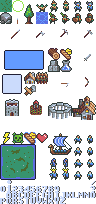
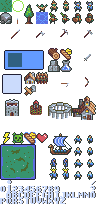
gfx

Changed region(s): [[0.0625, 0.2353, 0.25, 0.3529], [0.5, 0.5, 0.75, 0.5882]]

diff --git a/src/js/ui/renderUI.js b/src/js/ui/renderUI.js
@@ -160,6 +160,11 @@ function drawUiBox(uiPos, tileInfo, text) {
 		vec2(4, 2),
 		tile(vec2(0, 48), vec2(48, 24))
 	);
+	drawRect(
+		uiPos.subtract(vec2(.85, 0)),
+		vec2(1.2),
+		new Color(.2, .4, .5)
+	);
 	drawTile(
 		uiPos.subtract(vec2(.85, 0)),
 		vec2(1),
